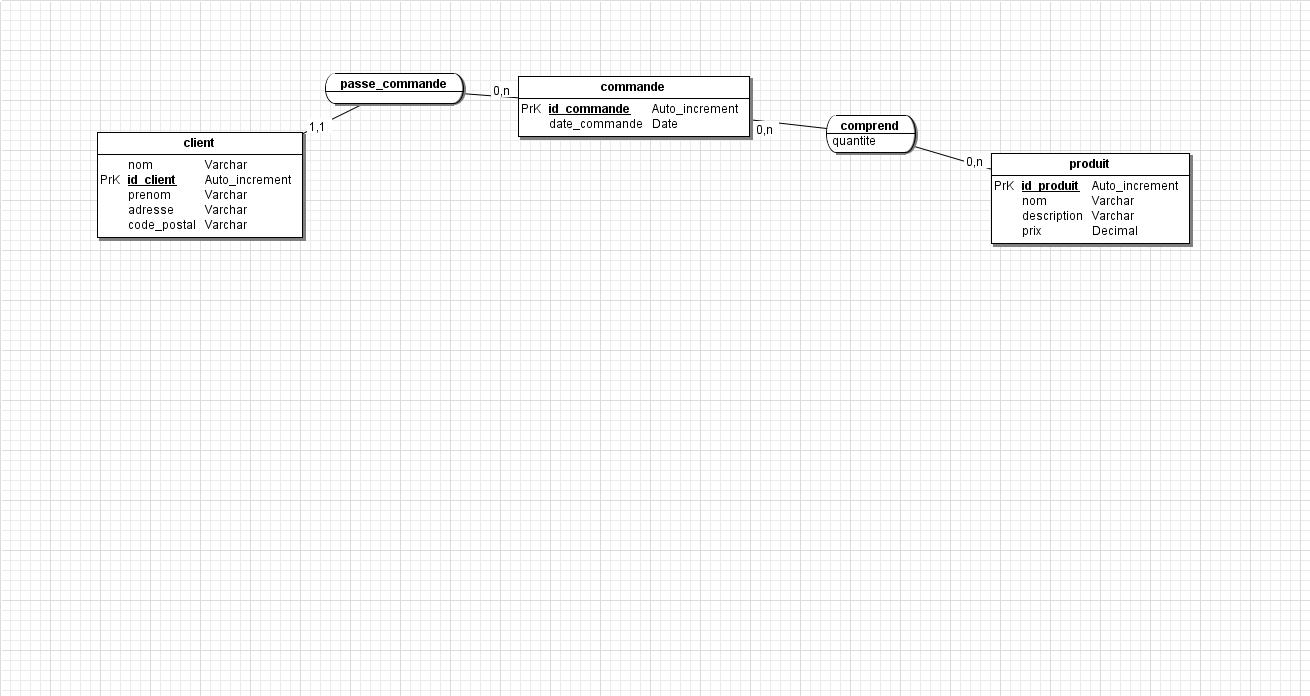
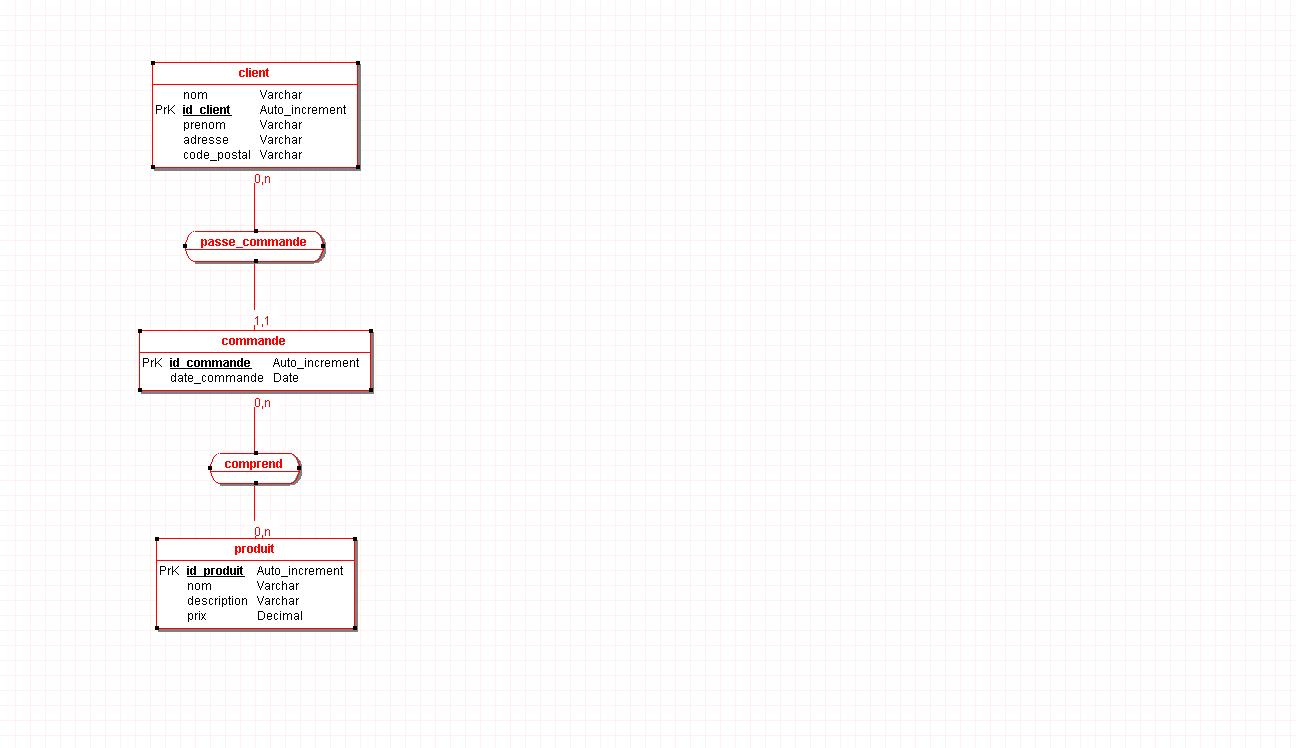
Modification mcd

diff --git a/ConsoleEntity/Properties/AssemblyInfo.cs b/ConsoleEntity/Properties/AssemblyInfo.cs
@@ -2,35 +2,35 @@
 using System.Runtime.CompilerServices;
 using System.Runtime.InteropServices;
 
-// Les informations générales relatives à un assembly dépendent de 
-// l'ensemble d'attributs suivant. Changez les valeurs de ces attributs pour modifier les informations
-// associées à un assembly.
+// General Information about an assembly is controlled through the following 
+// set of attributes. Change these attribute values to modify the information
+// associated with an assembly.
 [assembly: AssemblyTitle("ConsoleEntity")]
 [assembly: AssemblyDescription("")]
 [assembly: AssemblyConfiguration("")]
-[assembly: AssemblyCompany("")]
+[assembly: AssemblyCompany("Microsoft")]
 [assembly: AssemblyProduct("ConsoleEntity")]
-[assembly: AssemblyCopyright("Copyright ©  2017")]
+[assembly: AssemblyCopyright("Copyright © Microsoft 2017")]
 [assembly: AssemblyTrademark("")]
 [assembly: AssemblyCulture("")]
 
-// L'affectation de la valeur false à ComVisible rend les types invisibles dans cet assembly 
-// aux composants COM.  Si vous devez accéder à un type dans cet assembly à partir de 
-// COM, affectez la valeur true à l'attribut ComVisible sur ce type.
+// Setting ComVisible to false makes the types in this assembly not visible 
+// to COM components.  If you need to access a type in this assembly from 
+// COM, set the ComVisible attribute to true on that type.
 [assembly: ComVisible(false)]
 
-// Le GUID suivant est pour l'ID de la typelib si ce projet est exposé à COM
-[assembly: Guid("de0ca0f5-5012-43c9-9728-bab2264e4604")]
+// The following GUID is for the ID of the typelib if this project is exposed to COM
+[assembly: Guid("b9233132-fc79-4cf0-b59f-fcbf1f09c690")]
 
-// Les informations de version pour un assembly se composent des quatre valeurs suivantes :
+// Version information for an assembly consists of the following four values:
 //
-//      Version principale
-//      Version secondaire 
-//      Numéro de build
-//      Révision
+//      Major Version
+//      Minor Version 
+//      Build Number
+//      Revision
 //
-// Vous pouvez spécifier toutes les valeurs ou indiquer les numéros de build et de révision par défaut 
-// en utilisant '*', comme indiqué ci-dessous :
+// You can specify all the values or you can default the Build and Revision Numbers 
+// by using the '*' as shown below:
 // [assembly: AssemblyVersion("1.0.*")]
 [assembly: AssemblyVersion("1.0.0.0")]
 [assembly: AssemblyFileVersion("1.0.0.0")]

diff --git a/ConsoleEntity/CommandeContext.cs b/ConsoleEntity/CommandeContext.cs
@@ -1,0 +1,60 @@
+namespace ConsoleEntity
+{
+	using System;
+	using System.Data.Entity;
+	using System.ComponentModel.DataAnnotations.Schema;
+	using System.Linq;
+
+	public partial class CommandeContext : DbContext
+	{
+		public CommandeContext()
+			: base("name=CommandeContext")
+		{
+		}
+
+		public virtual DbSet<client> clients { get; set; }
+		public virtual DbSet<commande> commandes { get; set; }
+		public virtual DbSet<produit> produits { get; set; }
+
+		protected override void OnModelCreating(DbModelBuilder modelBuilder)
+		{
+			modelBuilder.Entity<client>()
+				.Property(e => e.nom)
+				.IsUnicode(false);
+
+			modelBuilder.Entity<client>()
+				.Property(e => e.prenom)
+				.IsUnicode(false);
+
+			modelBuilder.Entity<client>()
+				.Property(e => e.adresse)
+				.IsUnicode(false);
+
+			modelBuilder.Entity<client>()
+				.Property(e => e.code_postal)
+				.IsUnicode(false);
+
+			modelBuilder.Entity<client>()
+				.HasMany(e => e.commandes)
+				.WithRequired(e => e.client)
+				.WillCascadeOnDelete(false);
+
+			modelBuilder.Entity<commande>()
+				.HasMany(e => e.produits)
+				.WithMany(e => e.commandes)
+				.Map(m => m.ToTable("comprend").MapLeftKey("id_commande").MapRightKey("id_produit"));
+
+			modelBuilder.Entity<produit>()
+				.Property(e => e.nom)
+				.IsUnicode(false);
+
+			modelBuilder.Entity<produit>()
+				.Property(e => e.description)
+				.IsUnicode(false);
+
+			modelBuilder.Entity<produit>()
+				.Property(e => e.prix)
+				.HasPrecision(8, 2);
+		}
+	}
+}

diff --git a/ConsoleEntity/client.cs b/ConsoleEntity/client.cs
@@ -9,6 +9,12 @@ namespace ConsoleEntity
     [Table("client")]
     public partial class client
     {
+        [System.Diagnostics.CodeAnalysis.SuppressMessage("Microsoft.Usage", "CA2214:DoNotCallOverridableMethodsInConstructors")]
+        public client()
+        {
+            commandes = new HashSet<commande>();
+        }
+
         [Required]
         [StringLength(40)]
         public string nom { get; set; }
@@ -20,6 +26,7 @@ namespace ConsoleEntity
         [StringLength(25)]
         public string prenom { get; set; }
 
+        [Required]
         [StringLength(400)]
         public string adresse { get; set; }
 
@@ -27,8 +34,7 @@ namespace ConsoleEntity
         [StringLength(25)]
         public string code_postal { get; set; }
 
-        public int id_commande { get; set; }
-
-        public virtual commande commande { get; set; }
+        [System.Diagnostics.CodeAnalysis.SuppressMessage("Microsoft.Usage", "CA2227:CollectionPropertiesShouldBeReadOnly")]
+        public virtual ICollection<commande> commandes { get; set; }
     }
 }

diff --git a/ConsoleEntity/commande.cs b/ConsoleEntity/commande.cs
@@ -12,8 +12,7 @@ namespace ConsoleEntity
         [System.Diagnostics.CodeAnalysis.SuppressMessage("Microsoft.Usage", "CA2214:DoNotCallOverridableMethodsInConstructors")]
         public commande()
         {
-            clients = new HashSet<client>();
-            comprends = new HashSet<comprend>();
+            produits = new HashSet<produit>();
         }
 
         [Key]
@@ -21,10 +20,11 @@ namespace ConsoleEntity
 
         public DateTime? date_commande { get; set; }
 
-        [System.Diagnostics.CodeAnalysis.SuppressMessage("Microsoft.Usage", "CA2227:CollectionPropertiesShouldBeReadOnly")]
-        public virtual ICollection<client> clients { get; set; }
+        public int id_client { get; set; }
+
+        public virtual client client { get; set; }
 
         [System.Diagnostics.CodeAnalysis.SuppressMessage("Microsoft.Usage", "CA2227:CollectionPropertiesShouldBeReadOnly")]
-        public virtual ICollection<comprend> comprends { get; set; }
+        public virtual ICollection<produit> produits { get; set; }
     }
 }

diff --git a/ConsoleEntity/produit.cs b/ConsoleEntity/produit.cs
@@ -12,7 +12,7 @@ namespace ConsoleEntity
         [System.Diagnostics.CodeAnalysis.SuppressMessage("Microsoft.Usage", "CA2214:DoNotCallOverridableMethodsInConstructors")]
         public produit()
         {
-            comprends = new HashSet<comprend>();
+            commandes = new HashSet<commande>();
         }
 
         [Key]
@@ -22,12 +22,13 @@ namespace ConsoleEntity
         [StringLength(25)]
         public string nom { get; set; }
 
+        [Required]
         [StringLength(400)]
         public string description { get; set; }
 
-        public decimal? prix { get; set; }
+        public decimal prix { get; set; }
 
         [System.Diagnostics.CodeAnalysis.SuppressMessage("Microsoft.Usage", "CA2227:CollectionPropertiesShouldBeReadOnly")]
-        public virtual ICollection<comprend> comprends { get; set; }
+        public virtual ICollection<commande> commandes { get; set; }
     }
 }

diff --git a/ConsoleEntity/Program.cs b/ConsoleEntity/Program.cs
@@ -6,10 +6,10 @@ using System.Threading.Tasks;
 
 namespace ConsoleEntity
 {
-    class Program
-    {
-        static void Main(string[] args)
-        {
-        }
-    }
+	class Program
+	{
+		static void Main(string[] args)
+		{
+		}
+	}
 }
